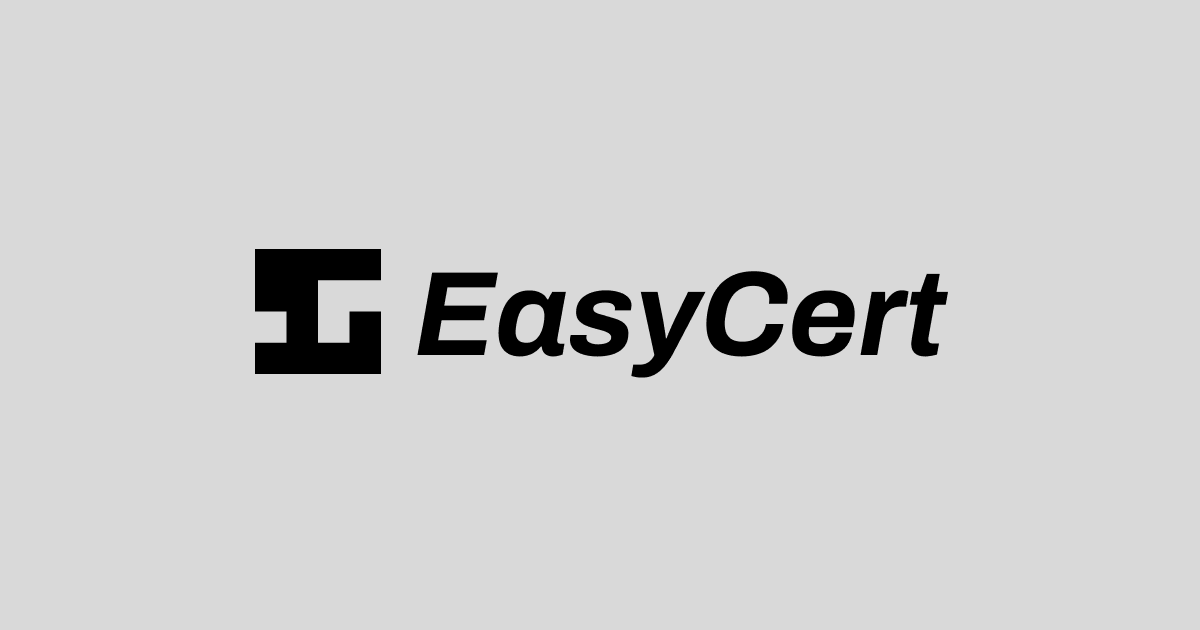
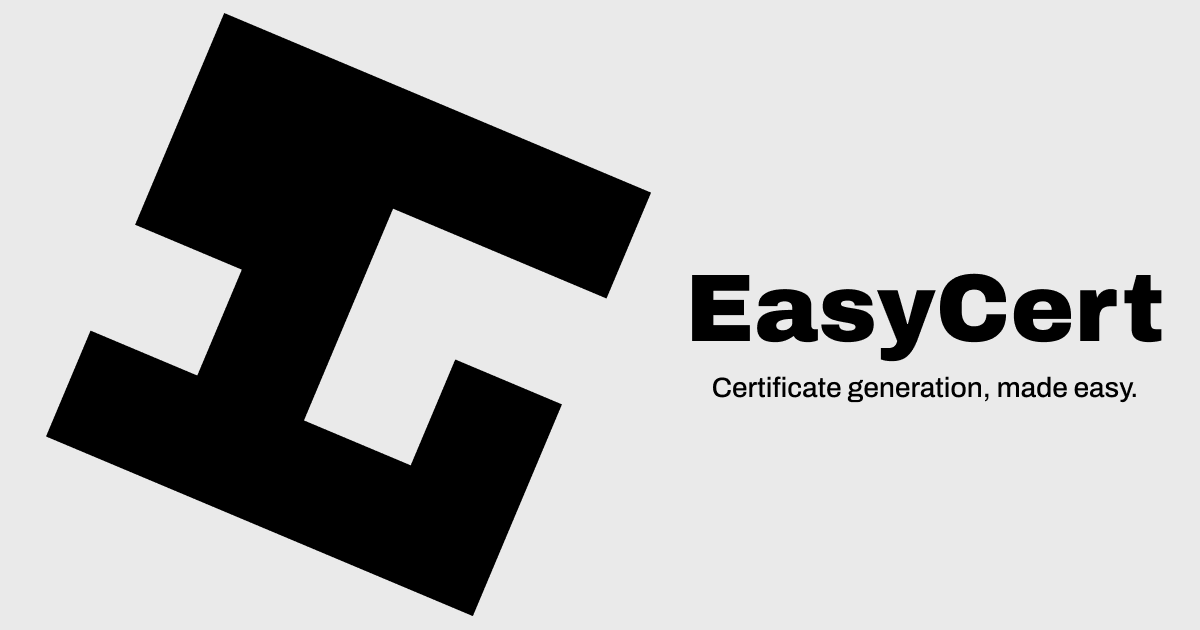
chore: seo fixes

Changed region(s): [[0.0308, 0.0302, 0.9867, 0.9952], [0.5858, 0.6032, 0.9558, 0.6333]]

diff --git a/components/mobile-generate-recommendation-dialog.tsx b/components/mobile-generate-recommendation-dialog.tsx
@@ -1,0 +1,78 @@
+"use client"
+
+import { useEffect, useState } from "react"
+import { Smartphone } from "lucide-react"
+
+import { Button } from "@/components/ui/button"
+import {
+  Dialog,
+  DialogContent,
+  DialogDescription,
+  DialogFooter,
+  DialogHeader,
+  DialogTitle,
+} from "@/components/ui/dialog"
+
+const MOBILE_MQ = "(max-width: 767px)"
+const SESSION_KEY = "easycert-generate-mobile-recommendation-dismissed"
+
+export function MobileGenerateRecommendationDialog() {
+  const [open, setOpen] = useState(false)
+
+  useEffect(() => {
+    const mq = window.matchMedia(MOBILE_MQ)
+
+    const sync = () => {
+      let dismissed = false
+      try {
+        dismissed = sessionStorage.getItem(SESSION_KEY) === "1"
+      } catch {
+        /* ignore */
+      }
+      setOpen(mq.matches && !dismissed)
+    }
+
+    sync()
+    mq.addEventListener("change", sync)
+    return () => mq.removeEventListener("change", sync)
+  }, [])
+
+  const handleOpenChange = (next: boolean) => {
+    setOpen(next)
+    if (!next) {
+      try {
+        sessionStorage.setItem(SESSION_KEY, "1")
+      } catch {
+        /* ignore */
+      }
+    }
+  }
+
+  return (
+    <Dialog open={open} onOpenChange={handleOpenChange}>
+      <DialogContent className="top-[42%] max-w-[min(100vw-2rem,24rem)] gap-5 border-yellow-400 bg-yellow-50 text-yellow-950 dark:border-yellow-600 dark:bg-yellow-950 dark:text-yellow-50 sm:top-[50%]">
+        <DialogHeader className="space-y-3 text-center sm:text-left">
+          <div className="mx-auto flex h-11 w-11 items-center justify-center rounded-full bg-yellow-200/80 dark:bg-yellow-900/80 sm:mx-0">
+            <Smartphone className="h-5 w-5" aria-hidden />
+          </div>
+          <DialogTitle className="text-balance">
+            Desktop or tablet recommended
+          </DialogTitle>
+          <DialogDescription className="text-balance text-yellow-900/90 dark:text-yellow-100/90">
+            For the best experience, we recommend using EasyCert on a desktop or
+            tablet.
+          </DialogDescription>
+        </DialogHeader>
+        <DialogFooter className="sm:justify-center">
+          <Button
+            type="button"
+            className="w-full sm:w-auto"
+            onClick={() => handleOpenChange(false)}
+          >
+            Continue on mobile
+          </Button>
+        </DialogFooter>
+      </DialogContent>
+    </Dialog>
+  )
+}

diff --git a/app/generate/page.tsx b/app/generate/page.tsx
@@ -1,15 +1,14 @@
 import type { Metadata } from "next";
 import { ProjectWorkspace } from "@/components/project-workspace";
-import { Alert, AlertDescription } from "@/components/ui/alert";
-import { Smartphone } from "lucide-react";
+import { MobileGenerateRecommendationDialog } from "@/components/mobile-generate-recommendation-dialog";
 import { Header } from "@/components/header";
 import { Footer } from "@/components/footer";
 export const metadata: Metadata = {
   title: "Certificate Generation",
   description: "Automate your certificate generation process with EasyCert",
   openGraph: {
-    title: "EasyCert - Certificate Generation Made Easy",
-    description: "Automate your certificate generation process with EasyCert",
+    title: "EasyCert",
+    description: "Certificate generation, made easy.",
     siteName: "EasyCert",
     images: [
       {
@@ -24,8 +23,8 @@ export const metadata: Metadata = {
   },
   twitter: {
     card: "summary_large_image",
-    title: "EasyCert - Certificate Generation Made Easy",
-    description: "Automate your certificate generation process with EasyCert",
+    title: "EasyCert",
+    description: "Certificate generation, made easy.",
     images: ["/opengraph-image.png"],
   },
 };
@@ -33,14 +32,7 @@ export const metadata: Metadata = {
 export default function GeneratePage() {
   return (
     <div className="min-h-screen bg-background">
-      <div className="md:hidden">
-        <Alert className="bg-yellow-50 dark:bg-yellow-900 border-yellow-400 dark:border-yellow-600">
-          <AlertDescription className="flex items-center gap-2 justify-center text-sm text-yellow-900 dark:text-yellow-100">
-            <Smartphone className="w-4 h-4" />
-            For the best experience, we recommend using EasyCert on a desktop or tablet.
-          </AlertDescription>
-        </Alert>
-      </div>
+      <MobileGenerateRecommendationDialog />
       <Header />
       <main className="container mx-auto px-4 py-6 sm:py-8">
         <ProjectWorkspace />

diff --git a/app/layout.tsx b/app/layout.tsx
@@ -1,20 +1,22 @@
 import './globals.css';
 import type { Metadata } from 'next';
+import { headers } from 'next/headers';
 import { FONT_CLASSES } from '@/lib/fonts';
 import { QueryProvider } from '@/components/query-provider';
 import { Toaster } from '@/components/ui/toaster';
 import { Analytics } from "@vercel/analytics/react"
 
-export const metadata: Metadata = {
-  metadataBase: new URL('https://easycert.vercel.app/'),
+const FALLBACK_SITE_URL = process.env.NEXT_PUBLIC_SITE_URL;
+
+const BASE_METADATA: Metadata = {
   title: {
     default: 'EasyCert',
     template: '%s | EasyCert',
   },
-  description: 'Create and distribute personalized certificates at scale.',
+  description: 'Certificate generation, made easy.',
   openGraph: {
     title: 'EasyCert',
-    description: 'Create and distribute personalized certificates at scale.',
+    description: 'Certificate generation, made easy.',
     siteName: 'EasyCert',
     images: [
       {
@@ -30,10 +32,33 @@ export const metadata: Metadata = {
   twitter: {
     card: 'summary_large_image',
     title: 'EasyCert',
-    description: 'Create and distribute personalized certificates at scale.',
+    description: 'Certificate generation, made easy.',
     images: ['/opengraph-image.png'],
   },
 };
+
+export async function generateMetadata(): Promise<Metadata> {
+  const headerStore = await headers();
+  const forwardedProto = headerStore.get('x-forwarded-proto') ?? 'https';
+  const host = headerStore.get('x-forwarded-host') ?? headerStore.get('host');
+  const origin = host ? `${forwardedProto}://${host}` : FALLBACK_SITE_URL;
+
+  if (!origin) {
+    return BASE_METADATA;
+  }
+
+  return {
+    ...BASE_METADATA,
+    metadataBase: new URL(origin),
+    alternates: {
+      canonical: origin,
+    },
+    openGraph: {
+      ...BASE_METADATA.openGraph,
+      url: origin,
+    },
+  };
+}
 
 export default function RootLayout({
   children,
